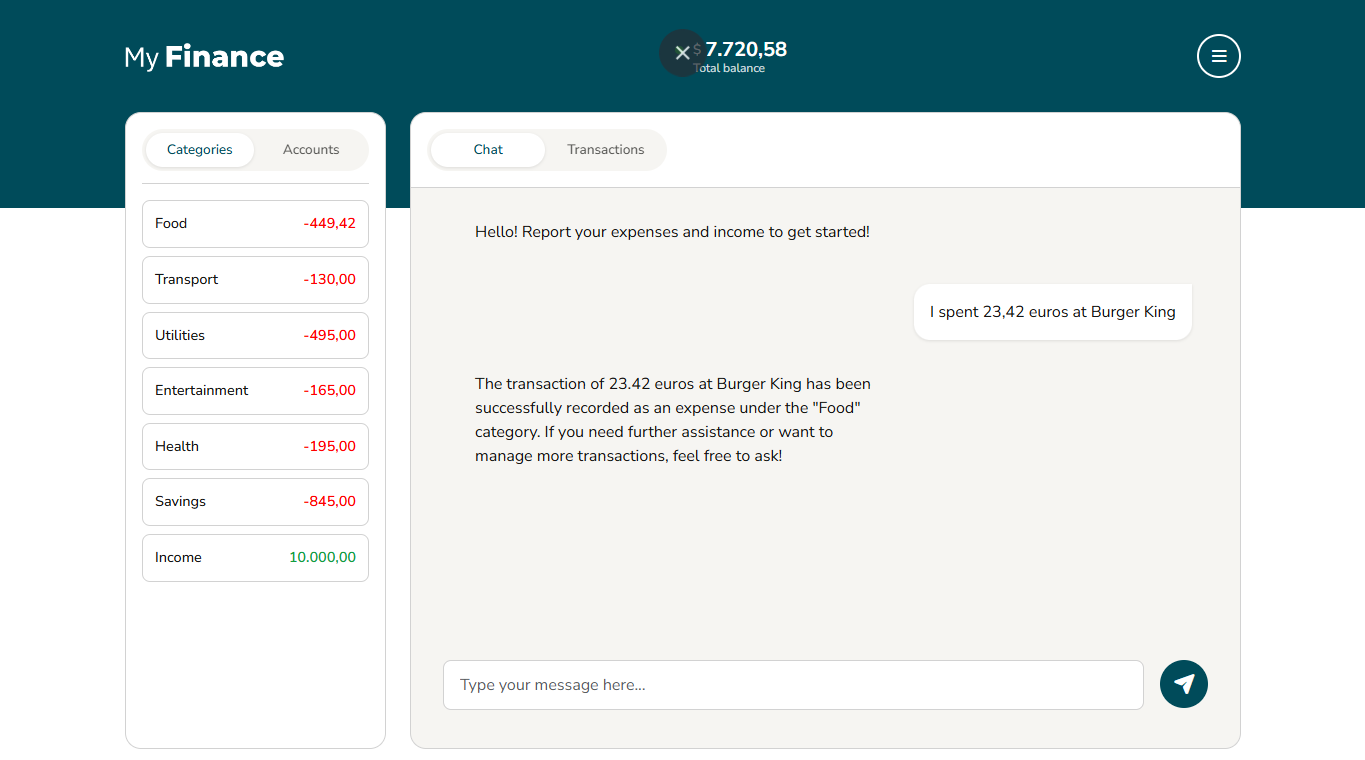
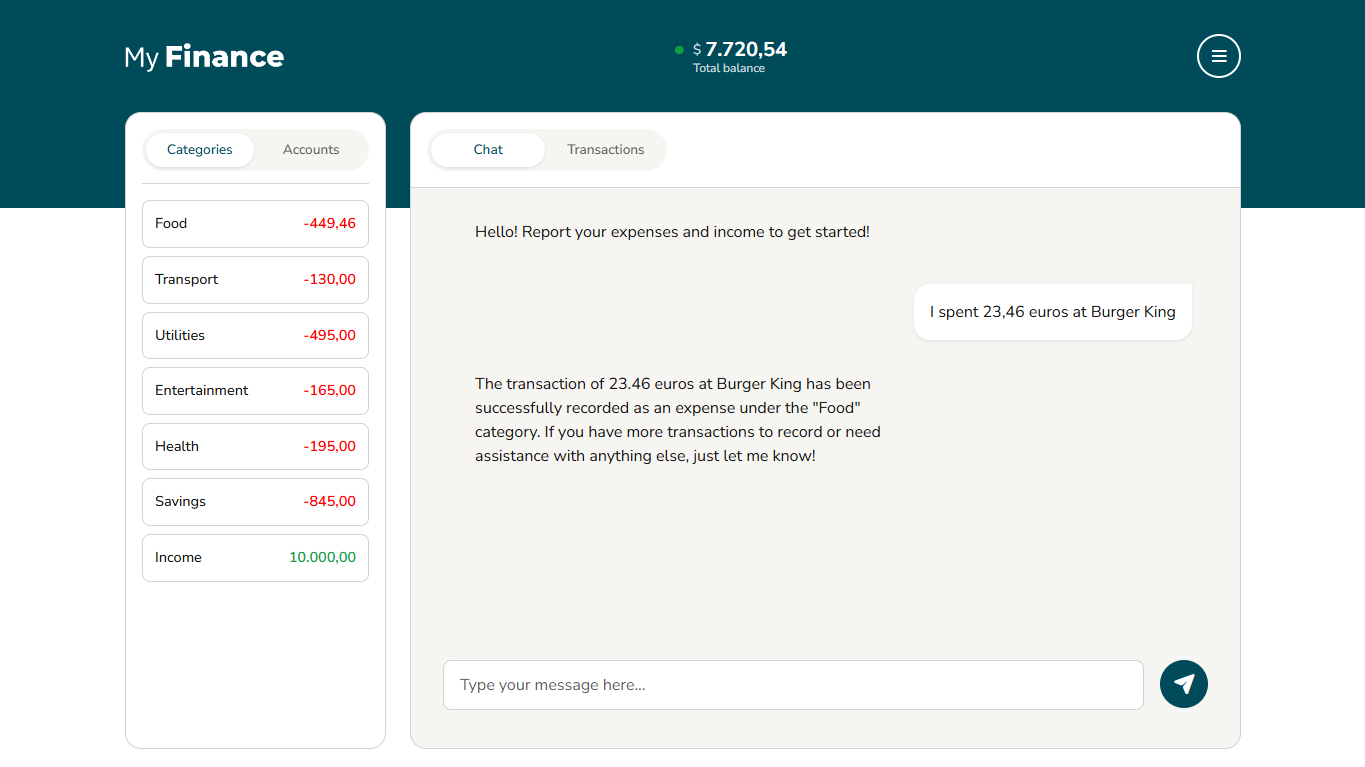
adding extra info to readme

diff --git a/README.md b/README.md
@@ -6,7 +6,7 @@
 
 ![MyFinanceTransactions](myfinance2.png)
 
-**Advanced Transaction Management** - Browse all your financial records with powerful filtering options by category, bank account, month, and year. View detailed transaction history with inline editing and deletion capabilities.
+**Advanced Transaction Management** - Browse all your financial records with powerful filtering options by category, bank account, month, and year. View detailed transaction history with inline editing and deletion capabilities. All these operations can also be performed through the AI chat using natural language commands.
 
 ![MyFinanceTransactions](myfinance3.png)
 
